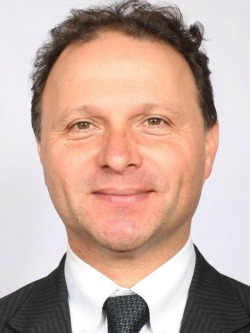
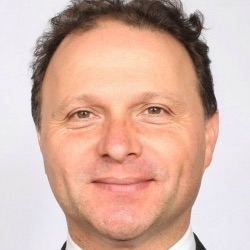
resizing senator part1

diff --git a/open-data.cl/index.html b/open-data.cl/index.html
@@ -1,0 +1,46 @@
+<!DOCTYPE html>
+<html lang="es">
+<head>
+    <meta charset="UTF-8">
+    <meta name="viewport" content="width=device-width, initial-scale=1.0">
+    <title>Bienvenides</title>
+    <link rel="stylesheet" href="style.css">
+</head>
+<body>
+    <div class="nav-container">
+        <div class="wrapper">
+            <nav>
+               <div>
+                   <ul class="nav-items">
+                       <li>
+                           <a class="nav-btn-container" href="#"></a>
+                       </li>
+                   </ul>
+               </div> 
+            </nav>
+        </div>
+    </div>
+    <div>
+        <div class="wrapper">
+            <header>
+                <div class="logo">
+                    <img src="img/ODcl-logo.svg" alt="">
+                </div>
+                <div class="hero-content">
+                    <p>
+                        Disponemos datos públicos chilenos, en un formato fácil de consumir y comprender, con el fin de aportar al conocimiento colectivo
+                    </p>
+                </div>
+                <div class="hero-image">
+                    <img src="img/img-data.png" alt="">
+                </div>
+    
+            </header>
+        </div>
+    </div>
+
+
+
+    <script src="main.js"></script>
+</body>
+</html>

diff --git a/open-data.cl/style.css b/open-data.cl/style.css
@@ -1,0 +1,18 @@
+!!
+
+position: absolute;
+width: 571px;
+height: 156px;
+left: 128px;
+top: 272px;
+
+font-family: Karla;
+font-style: normal;
+font-weight: normal;
+font-size: 30px;
+line-height: 130%;
+/* or 39px */
+
+
+/* Azulado-Gris/Grey 1 */
+color: #344058;
